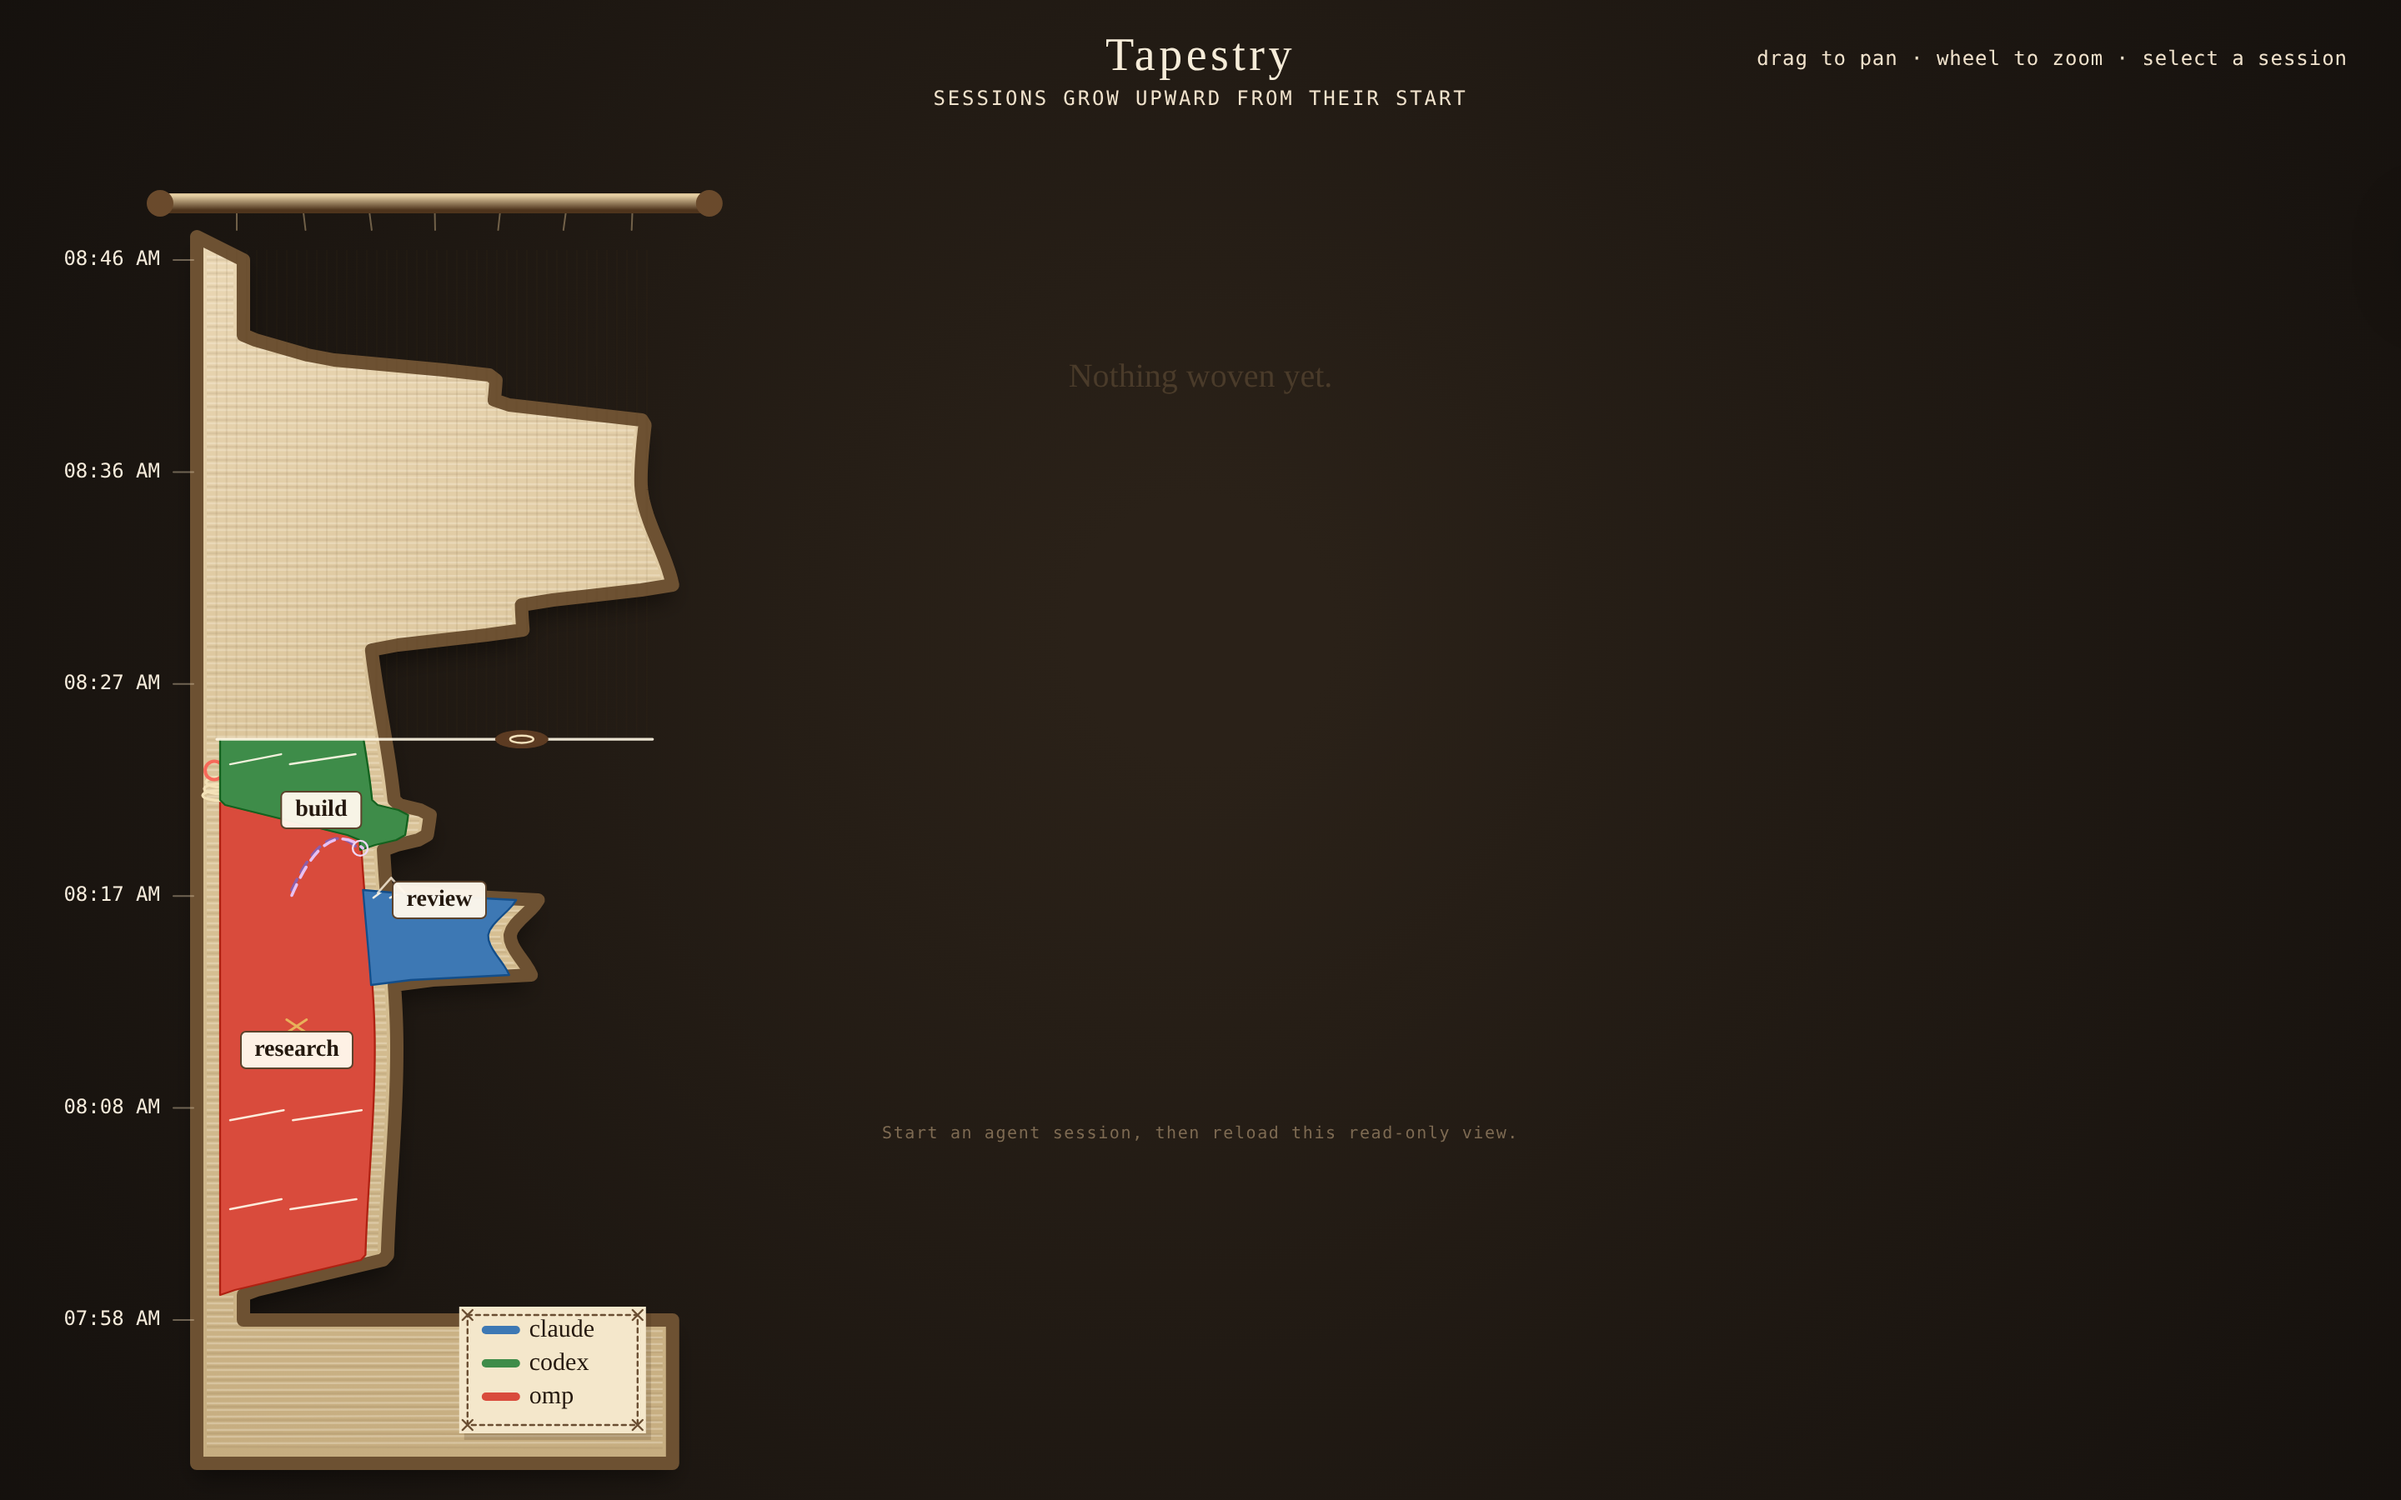
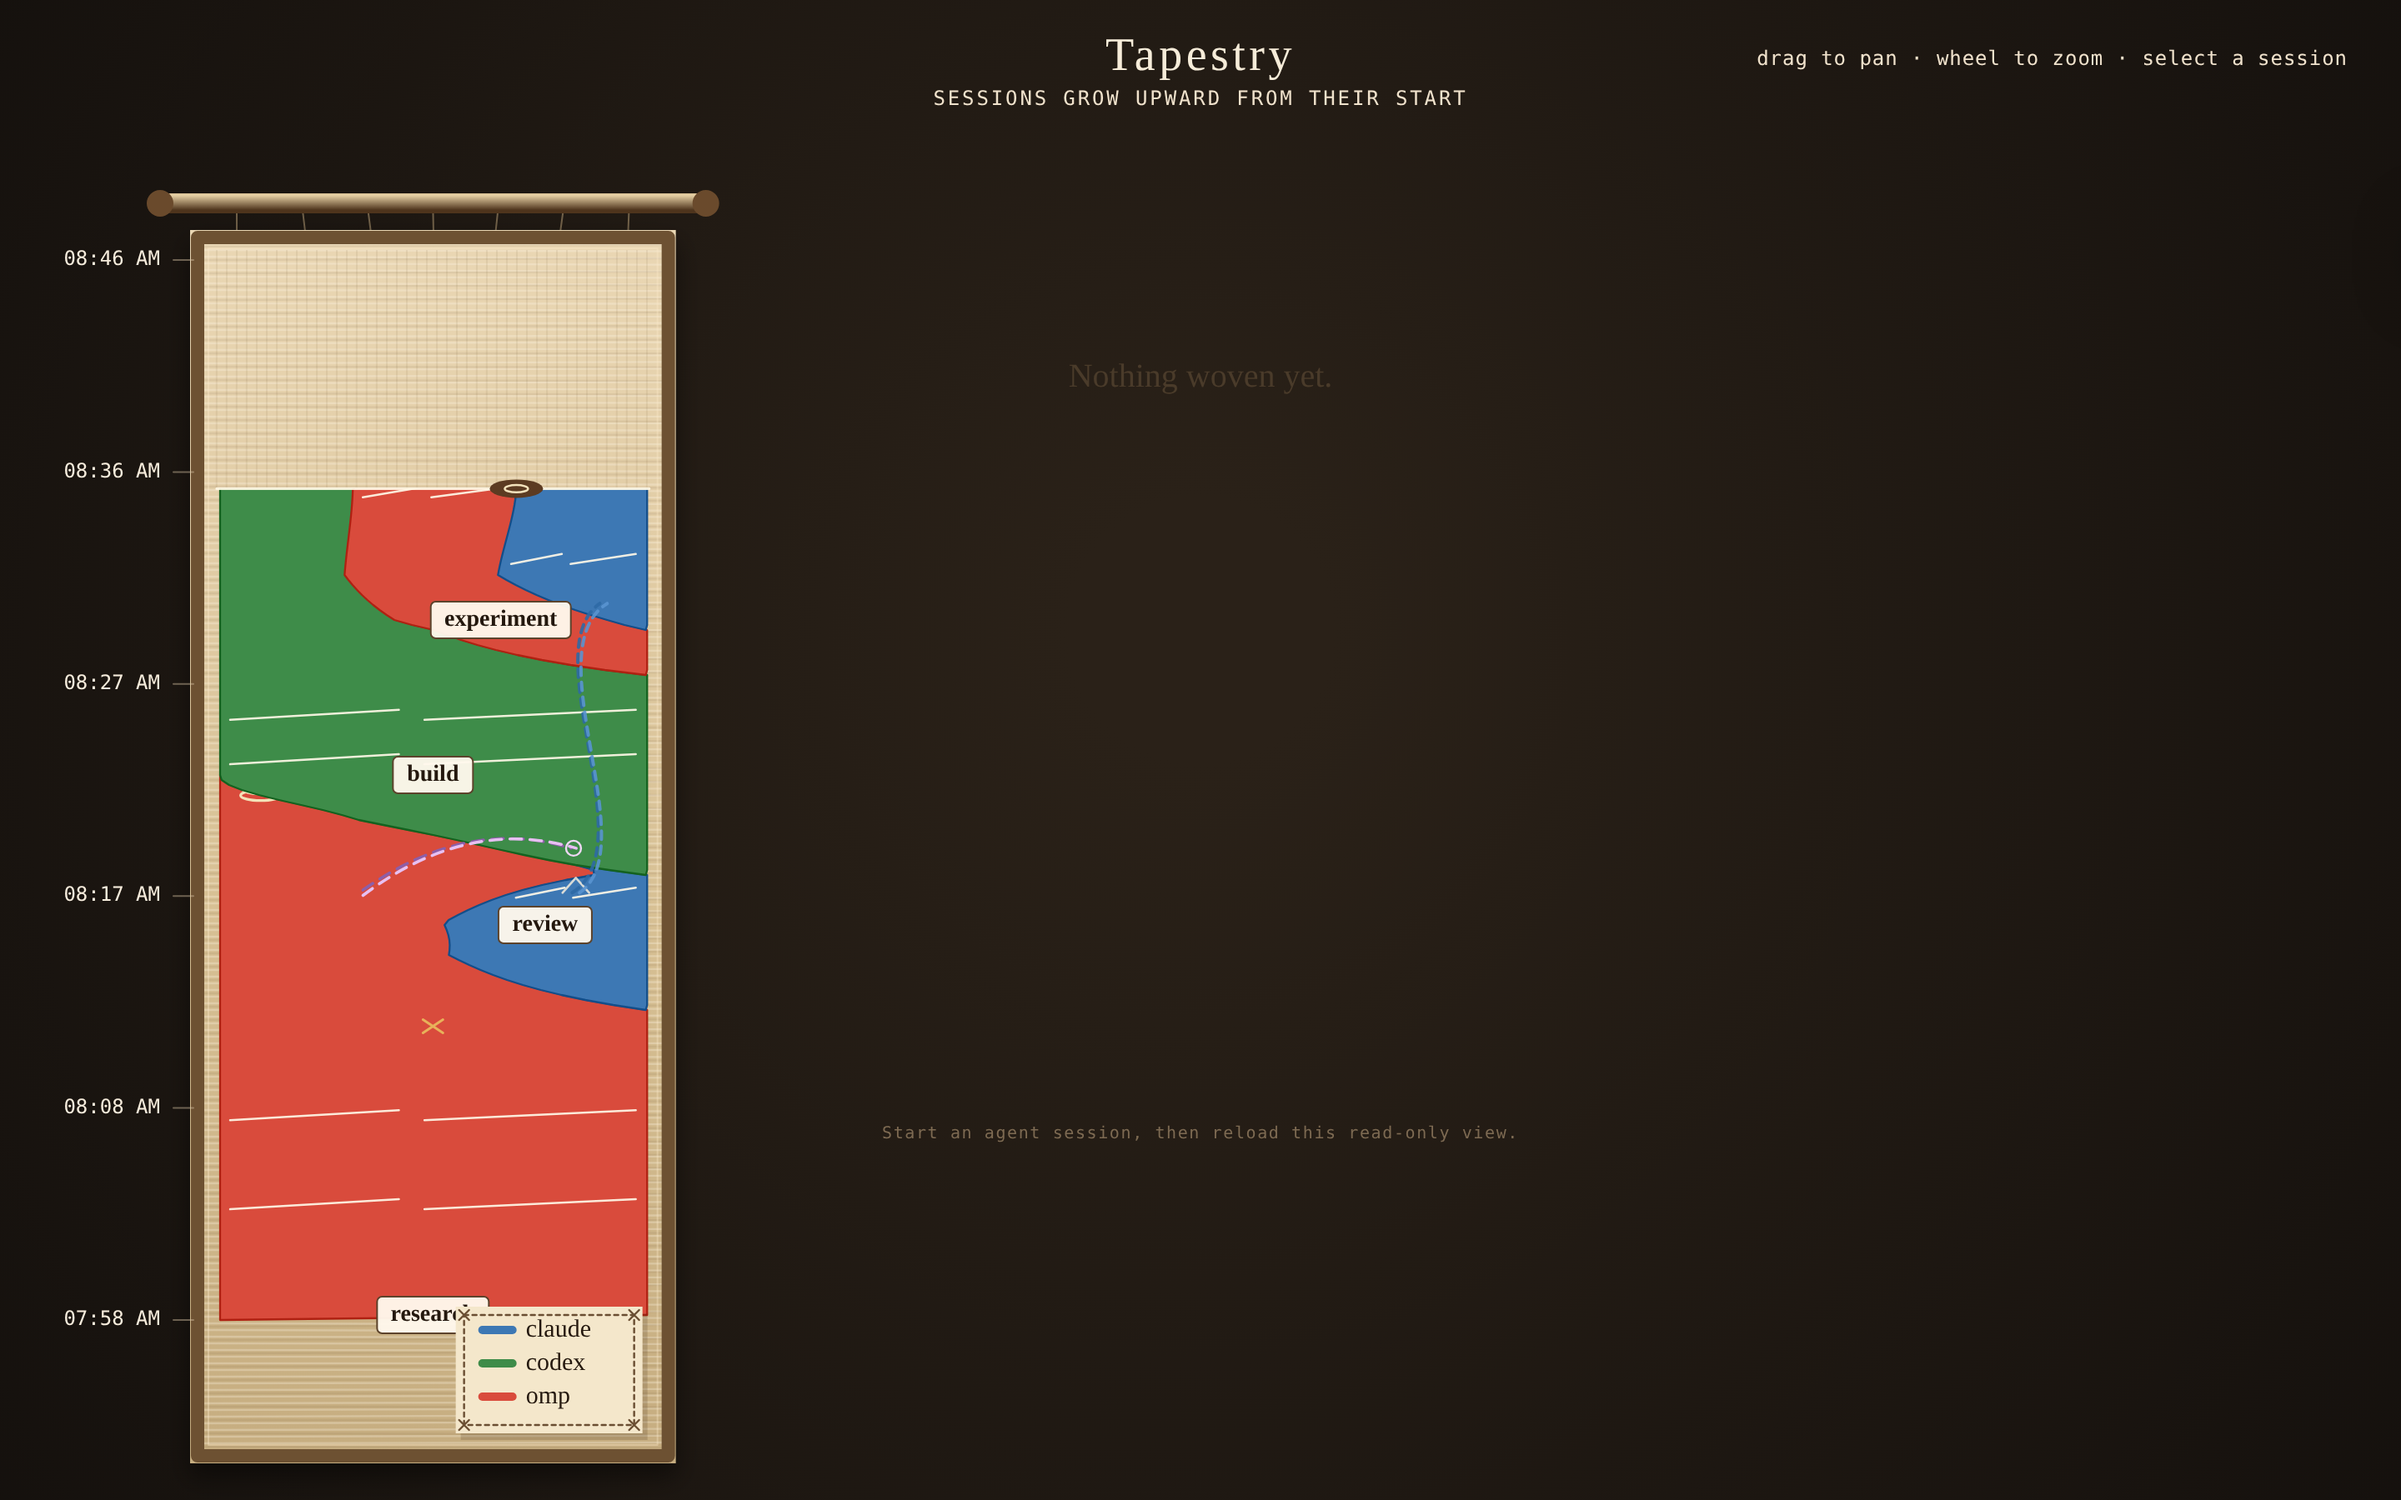
Hang a straight cloth and fill it edge to edge
The stitch frame was tracing every taper, so the loom came out jagged.
The cloth is a rectangle again. Threads still start at the lower left and
meet both selvedges.

Changed region(s): [[0.0625, 0.1556, 0.2812, 0.9956]]

diff --git a/tapestry/weave.js b/tapestry/weave.js
@@ -80,7 +80,7 @@ function bandWidth(session, time) {
   if (time <= session.start || time >= session.end) return 0;
   const span = session.end - session.start || 1;
   const u = (time - session.start) / span;
-  const taper = Math.min(1, Math.min(u, 1 - u) / 0.07);
+  const taper = u > 0.94 ? (1 - u) / 0.06 : 1;
   const samples = session.samples?.length ? session.samples : [0.6];
   const x = Math.max(0, Math.min(0.999, u)) * Math.max(1, samples.length - 1);
   const i = Math.floor(x);
@@ -110,7 +110,53 @@ function weaveStack(frame) {
     if (x > right) right = x;
     slices.push({ y: yAt(frame, time), time, segs, right: x });
   }
-  return { order, slices, left, right };
+  const radius = 5;
+  const smoothed = order.map((session) => slices.map((slice) => {
+    const index = slices.indexOf(slice);
+    let sum = 0;
+    let count = 0;
+    for (let j = index - radius; j <= index + radius; j++) {
+      if (j < 0 || j >= slices.length) continue;
+      const seg = slices[j].segs.find((item) => item.id === session.id);
+      sum += seg.x1 - seg.x0;
+      count++;
+    }
+    return sum / count;
+  }));
+  right = left;
+  slices.forEach((slice, index) => {
+    let x = left;
+    order.forEach((session, sessionIndex) => {
+      const width = smoothed[sessionIndex][index];
+      const seg = slice.segs.find((item) => item.id === session.id);
+      seg.x0 = x;
+      seg.x1 = x + width;
+      x += width;
+    });
+    slice.right = x;
+    if (x > right) right = x;
+  });
+  const span = Math.max(1, right - left);
+  for (const slice of slices) {
+    const sum = slice.segs.reduce((total, seg) => total + (seg.x1 - seg.x0), 0);
+    if (sum < 1) {
+      for (const seg of slice.segs) {
+        seg.x0 = left;
+        seg.x1 = left;
+      }
+      slice.right = left;
+      continue;
+    }
+    let x = left;
+    for (const seg of slice.segs) {
+      const width = ((seg.x1 - seg.x0) / sum) * span;
+      seg.x0 = x;
+      seg.x1 = x + width;
+      x += width;
+    }
+    slice.right = left + span;
+  }
+  return { order, slices, left, right: left + span };
 }
 
 function segAt(id, y) {
@@ -157,21 +203,6 @@ function streamPoints(id) {
     right.push([seg.x1 + (width > 0.4 ? 0.8 : 0), slice.y]);
   });
   return left.concat(right.reverse());
-}
-
-function clothOutline(weave, pad) {
-  const slices = weave.slices;
-  const bottom = slices[0].y;
-  const top = slices[slices.length - 1].y;
-  const hem = 86;
-  ctx.beginPath();
-  ctx.moveTo(weave.left - pad, bottom + hem);
-  ctx.lineTo(weave.right + pad, bottom + hem);
-  ctx.lineTo(weave.right + pad, bottom);
-  ctx.lineTo(slices[0].right + pad, bottom);
-  for (let i = 1; i < slices.length; i++) ctx.lineTo(slices[i].right + pad, slices[i].y);
-  ctx.lineTo(weave.left - pad, top - pad);
-  ctx.closePath();
 }
 
 function weaveBounds(weave) {
@@ -247,20 +278,12 @@ function drawHanging(rect) {
   linen.addColorStop(0.55, "#d7c094");
   linen.addColorStop(1, "#c6ad80");
   ctx.fillStyle = linen;
-  if (state.weave) clothOutline(state.weave, 14);
-  else {
-    ctx.beginPath();
-    ctx.rect(rect.x, rect.y, rect.w, rect.h);
-  }
-  ctx.fill();
+  ctx.fillRect(rect.x, rect.y, rect.w, rect.h);
   ctx.restore();
 
   ctx.save();
-  if (state.weave) clothOutline(state.weave, 8);
-  else {
-    ctx.beginPath();
-    ctx.rect(rect.x + 7, rect.y + 7, rect.w - 14, rect.h - 14);
-  }
+  ctx.beginPath();
+  ctx.rect(rect.x + 7, rect.y + 7, rect.w - 14, rect.h - 14);
   ctx.clip();
   ctx.beginPath();
   for (let y = rect.y + 8; y < rect.y + rect.h - 8; y += 4) {
@@ -282,15 +305,10 @@ function drawHanging(rect) {
 
   ctx.strokeStyle = "#6d5132";
   ctx.lineWidth = 8;
-  if (state.weave) {
-    clothOutline(state.weave, 14);
-    ctx.stroke();
-  } else {
-    ctx.strokeRect(rect.x + 4.5, rect.y + 4.5, rect.w - 9, rect.h - 9);
-    ctx.strokeStyle = "rgba(255, 236, 204, 0.35)";
-    ctx.lineWidth = 1;
-    ctx.strokeRect(rect.x + 11, rect.y + 11, rect.w - 22, rect.h - 22);
-  }
+  ctx.strokeRect(rect.x + 4.5, rect.y + 4.5, rect.w - 9, rect.h - 9);
+  ctx.strokeStyle = "rgba(255, 236, 204, 0.35)";
+  ctx.lineWidth = 1;
+  ctx.strokeRect(rect.x + 11, rect.y + 11, rect.w - 22, rect.h - 22);
 }
 
 function drawWarp(rect) {

diff --git a/docs/tapestry-runtime.md b/docs/tapestry-runtime.md
@@ -2,10 +2,10 @@
 
 The runtime Tapestry is a read-only projection of the sealed daily shards.
 Sessions grow upward from their start. The renderer hangs that history as
-linen on a rod. Threads begin at the lower left and are packed edge to edge.
-A thread that ends or narrows pulls the ones to its right back toward the
-left. A new session extends the cloth to the right. Width still follows
-activity.
+linen on a rod. Threads begin at the lower left, sit edge to edge, and fill
+out to both selvedges. A thread that ends gives its width back toward the
+left. The cloth is only as wide as the weave, so a new session can still
+extend it to the right.
 
 ![Demo weave](tapestry-demo.png)
 
